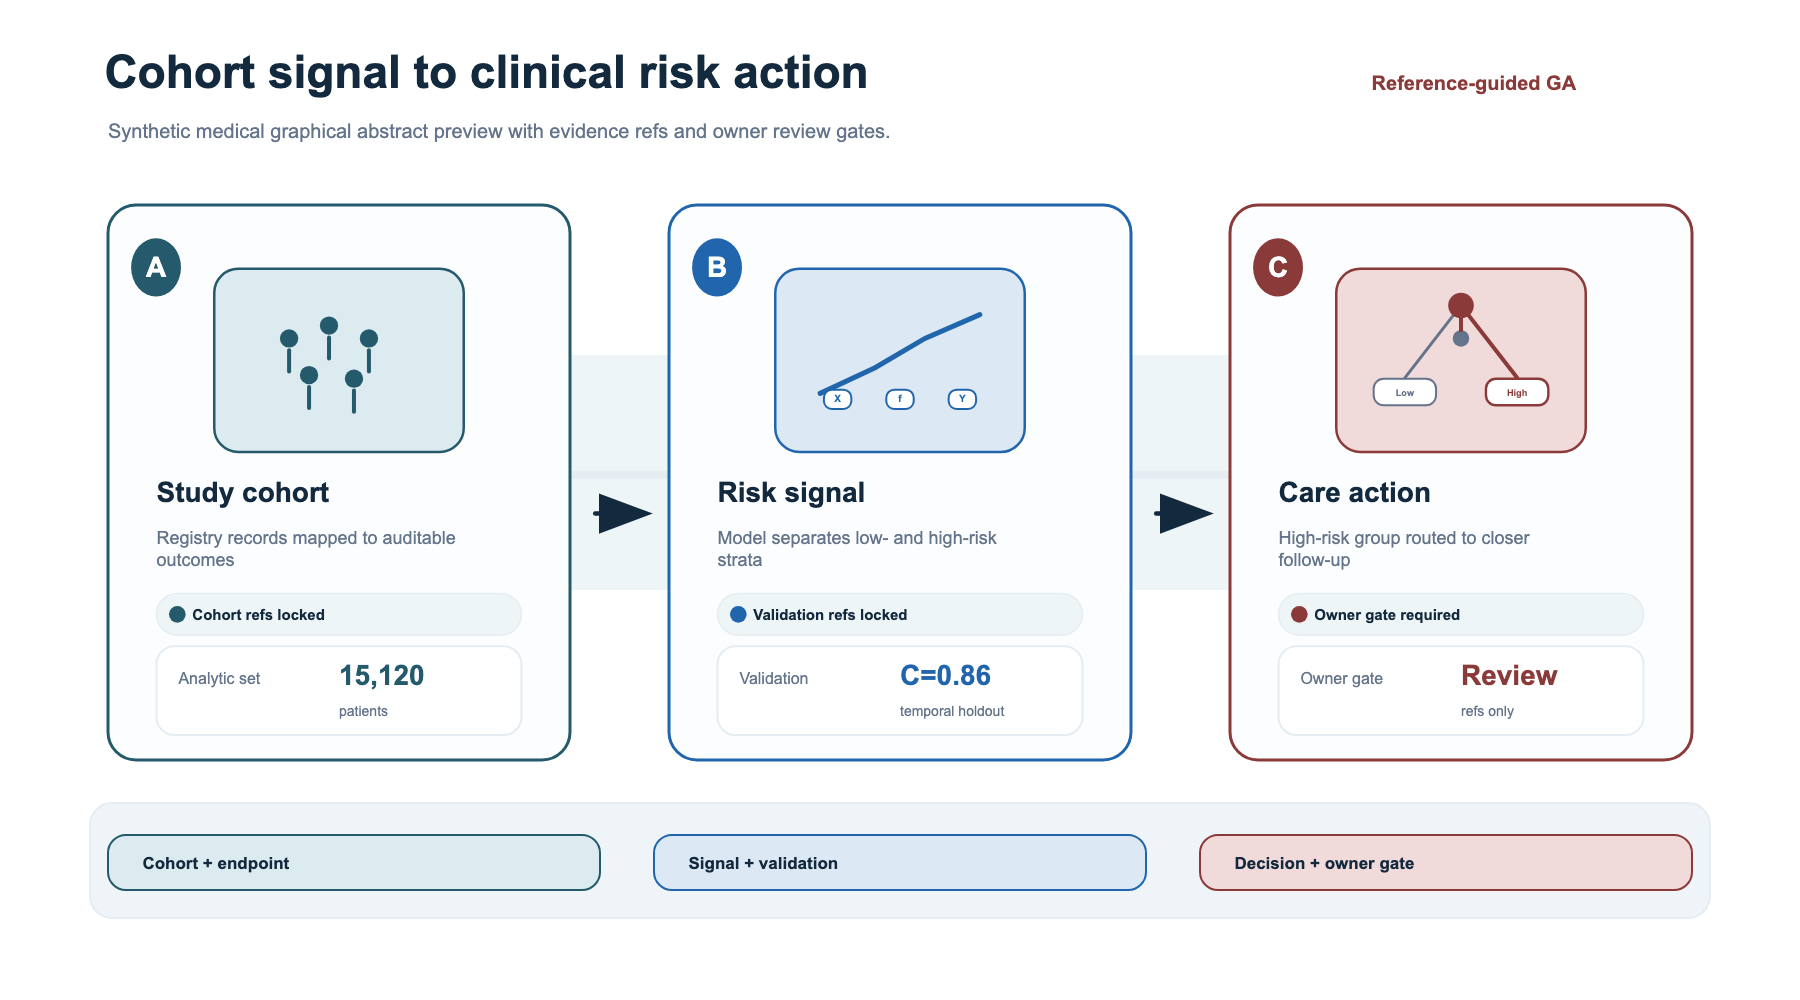
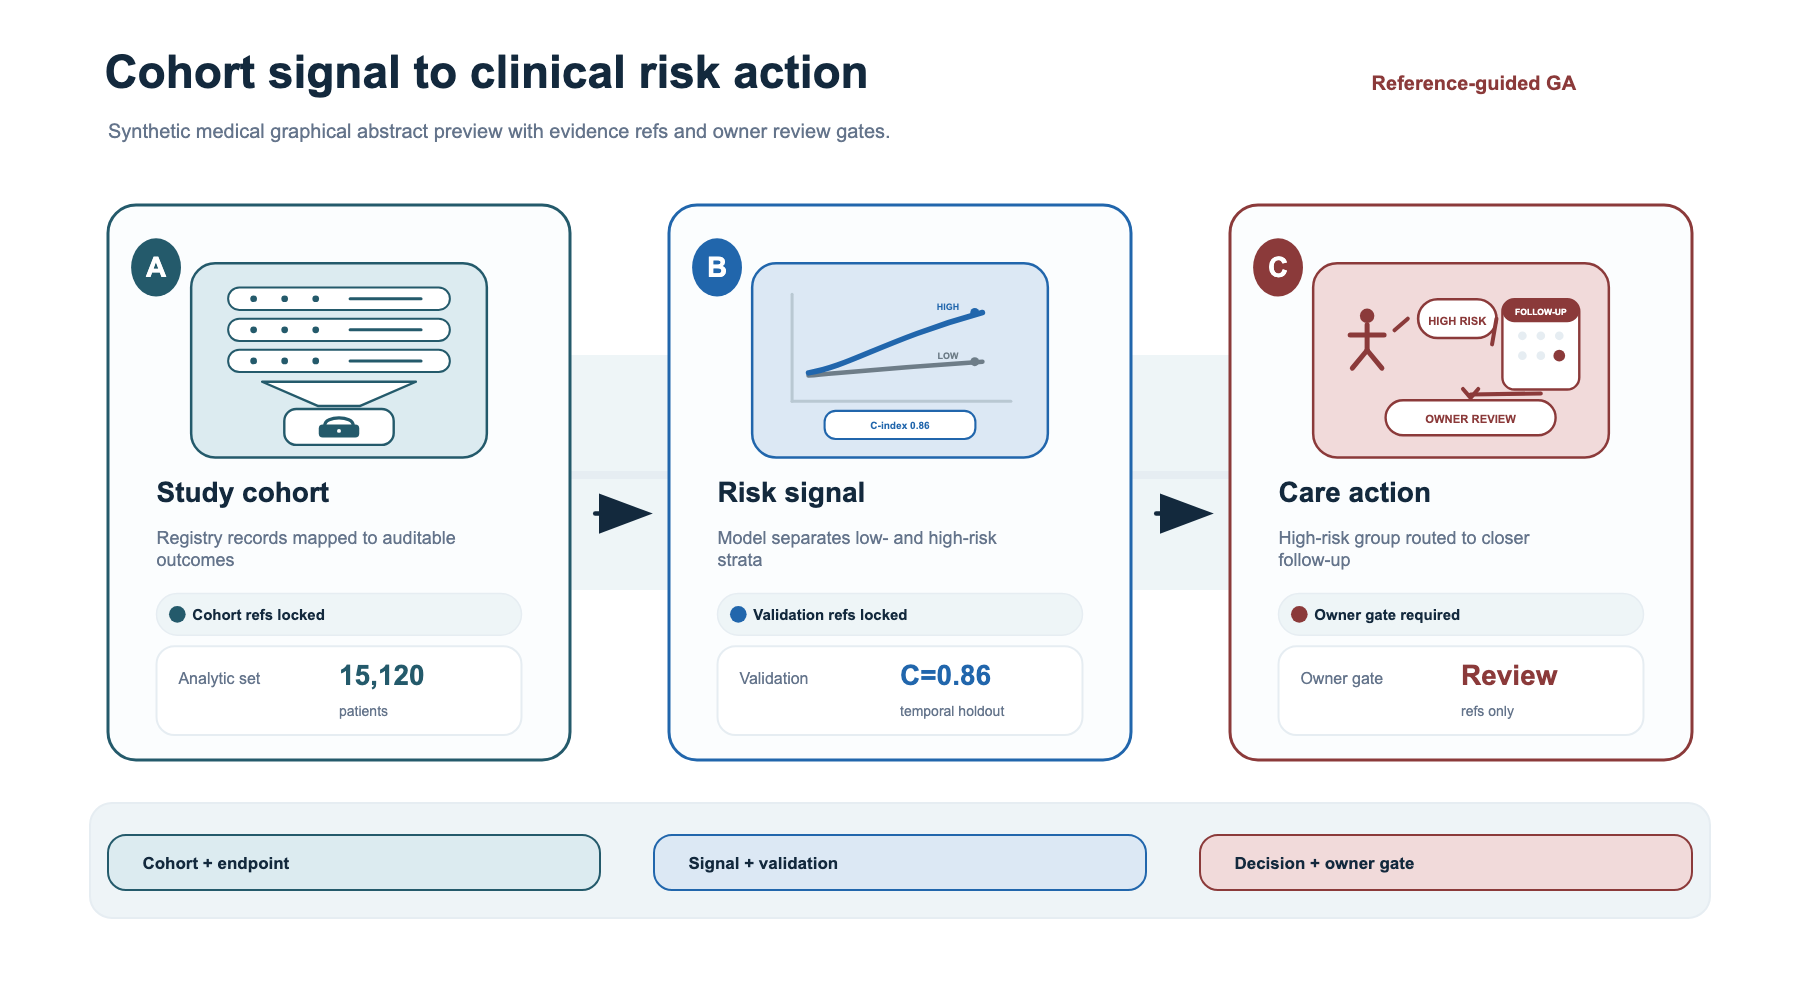
Polish graphical abstract semantic microflows

Changed region(s): [[0.7156, 0.248, 0.9022, 0.465], [0.0933, 0.248, 0.28, 0.465], [0.4044, 0.248, 0.5911, 0.465]]

diff --git a/src/med_autoscience/display_pack_gallery_parts/design_svg_renderer.py b/src/med_autoscience/display_pack_gallery_parts/design_svg_renderer.py
@@ -21,7 +21,7 @@ from med_autoscience.display_pack_gallery_parts.svg_primitives import (
 CANVAS_WIDTH = 1800
 CANVAS_HEIGHT = 1000
 GA_LAYOUT_STYLE = "reference_guided_flow"
-GA_RENDERER_SOURCE = "mas_reference_guided_svg_preview.v3"
+GA_RENDERER_SOURCE = "mas_reference_guided_svg_preview.v5"
 
 
 def render_submission_graphical_abstract_gallery_preview(
@@ -297,7 +297,7 @@ def _append_workflow_node(
         box_id=f"panel_label_{panel_id}",
         box_type="panel_label",
     )
-    glyph_box = relative_box(panel_box, 0.230, 0.115, 0.770, 0.445)
+    glyph_box = relative_box(panel_box, 0.180, 0.105, 0.820, 0.455)
     append_rect(parts, glyph_box, fill=soft, stroke=accent, stroke_width=2.5, radius=24)
     _append_glyph(parts, glyph_box, role=str(panel.get("visual_role") or ""), accent=accent, colors=colors)
     layout_boxes.append(normalized_box(glyph_box, width=width, height=height, box_id=f"visual_glyph_{panel_id}", box_type="visual_glyph"))
@@ -551,35 +551,92 @@ def _append_gate_glyph(parts: list[str], box: dict[str, float], *, accent: str) 
 
 
 def _append_care_action_glyph(parts: list[str], box: dict[str, float], *, accent: str, colors: dict[str, str]) -> None:
-    low = relative_box(box, 0.150, 0.600, 0.400, 0.745)
-    high = relative_box(box, 0.600, 0.600, 0.850, 0.745)
-    append_rect(parts, low, fill="#FFFFFF", stroke=colors["muted"], stroke_width=2, radius=10)
-    append_rect(parts, high, fill="#FFFFFF", stroke=accent, stroke_width=2.4, radius=10)
-    _center_text(parts, low, label="Low", color=colors["muted"], font_size=box["h"] * 0.050)
-    _center_text(parts, high, label="High", color=accent, font_size=box["h"] * 0.050)
-    append_line(parts, x1=box["x0"] + box["w"] * 0.500, y1=box["y0"] + box["h"] * 0.200, x2=box["x0"] + box["w"] * 0.275, y2=box["y0"] + box["h"] * 0.595, color=colors["muted"], stroke_width=3)
-    append_line(parts, x1=box["x0"] + box["w"] * 0.500, y1=box["y0"] + box["h"] * 0.200, x2=box["x0"] + box["w"] * 0.725, y2=box["y0"] + box["h"] * 0.595, color=accent, stroke_width=4)
-    for cx, cy, r, fill in ((0.50, 0.20, 0.070, accent), (0.50, 0.380, 0.045, colors["muted"])):
-        append_circle(parts, cx=box["x0"] + box["w"] * cx, cy=box["y0"] + box["h"] * cy, r=box["h"] * r, fill=fill)
-    append_line(parts, x1=box["x0"] + box["w"] * 0.500, y1=box["y0"] + box["h"] * 0.255, x2=box["x0"] + box["w"] * 0.500, y2=box["y0"] + box["h"] * 0.335, color=accent, stroke_width=4)
+    patient = relative_box(box, 0.090, 0.210, 0.275, 0.565)
+    append_circle(parts, cx=patient["x0"] + patient["w"] * 0.50, cy=patient["y0"] + patient["h"] * 0.170, r=patient["h"] * 0.105, fill=accent)
+    append_line(parts, x1=patient["x0"] + patient["w"] * 0.50, y1=patient["y0"] + patient["h"] * 0.300, x2=patient["x0"] + patient["w"] * 0.50, y2=patient["y0"] + patient["h"] * 0.670, color=accent, stroke_width=5)
+    append_line(parts, x1=patient["x0"] + patient["w"] * 0.190, y1=patient["y0"] + patient["h"] * 0.450, x2=patient["x0"] + patient["w"] * 0.810, y2=patient["y0"] + patient["h"] * 0.450, color=accent, stroke_width=5)
+    append_line(parts, x1=patient["x0"] + patient["w"] * 0.500, y1=patient["y0"] + patient["h"] * 0.670, x2=patient["x0"] + patient["w"] * 0.230, y2=patient["y0"] + patient["h"] * 0.930, color=accent, stroke_width=5)
+    append_line(parts, x1=patient["x0"] + patient["w"] * 0.500, y1=patient["y0"] + patient["h"] * 0.670, x2=patient["x0"] + patient["w"] * 0.770, y2=patient["y0"] + patient["h"] * 0.930, color=accent, stroke_width=5)
+
+    high_badge = relative_box(box, 0.355, 0.185, 0.620, 0.385)
+    append_rect(parts, high_badge, fill="#FFFFFF", stroke=accent, stroke_width=2.6, radius=high_badge["h"] / 2.0)
+    _center_text(parts, high_badge, label="HIGH RISK", color=accent, font_size=box["h"] * 0.058)
+
+    calendar = relative_box(box, 0.640, 0.185, 0.900, 0.650)
+    append_rect(parts, calendar, fill="#FFFFFF", stroke=accent, stroke_width=2.4, radius=12)
+    append_rect(parts, relative_box(calendar, 0.0, 0.0, 1.0, 0.255), fill=accent, stroke=accent, stroke_width=0, radius=12)
+    for cx in (0.260, 0.500, 0.740):
+        append_circle(parts, cx=calendar["x0"] + calendar["w"] * cx, cy=calendar["y0"] + calendar["h"] * 0.405, r=calendar["h"] * 0.048, fill=colors["grid"])
+    for cx in (0.260, 0.500):
+        append_circle(parts, cx=calendar["x0"] + calendar["w"] * cx, cy=calendar["y0"] + calendar["h"] * 0.625, r=calendar["h"] * 0.048, fill=colors["grid"])
+    append_circle(parts, cx=calendar["x0"] + calendar["w"] * 0.740, cy=calendar["y0"] + calendar["h"] * 0.625, r=calendar["h"] * 0.065, fill=accent)
+    _center_text(parts, relative_box(calendar, 0.050, 0.015, 0.950, 0.250), label="FOLLOW-UP", color="#FFFFFF", font_size=box["h"] * 0.044)
+
+    action = relative_box(box, 0.245, 0.705, 0.820, 0.885)
+    append_rect(parts, action, fill="#FFFFFF", stroke=accent, stroke_width=2.4, radius=action["h"] / 2.0)
+    _center_text(parts, action, label="OWNER REVIEW", color=accent, font_size=box["h"] * 0.058)
+    append_line(parts, x1=patient["x0"] + patient["w"], y1=patient["y0"] + patient["h"] * 0.380, x2=high_badge["x0"] - box["w"] * 0.035, y2=high_badge["y0"] + high_badge["h"] * 0.500, color=accent, stroke_width=4)
+    append_line(parts, x1=high_badge["x0"] + high_badge["w"], y1=high_badge["y0"] + high_badge["h"] * 0.500, x2=calendar["x0"] - box["w"] * 0.035, y2=calendar["y0"] + calendar["h"] * 0.500, color=accent, stroke_width=4)
+    append_line(parts, x1=calendar["x0"] + calendar["w"] * 0.500, y1=calendar["y0"] + calendar["h"] + box["h"] * 0.020, x2=action["x0"] + action["w"] * 0.500, y2=action["y0"] - box["h"] * 0.030, color=accent, stroke_width=4)
+    parts.append(
+        f'<path d="M{action["x0"] + action["w"] * 0.455:.2f},{action["y0"] - box["h"] * 0.058:.2f} '
+        f'L{action["x0"] + action["w"] * 0.500:.2f},{action["y0"] - box["h"] * 0.012:.2f} '
+        f'L{action["x0"] + action["w"] * 0.545:.2f},{action["y0"] - box["h"] * 0.058:.2f}" '
+        f'fill="none" stroke="{escape(accent)}" stroke-width="4" stroke-linecap="round" stroke-linejoin="round"/>\n'
+    )
 
 
 def _append_population_glyph(parts: list[str], box: dict[str, float], *, accent: str) -> None:
-    for cx, cy in ((0.30, 0.38), (0.46, 0.31), (0.62, 0.38), (0.38, 0.58), (0.56, 0.60)):
-        append_circle(parts, cx=box["x0"] + box["w"] * cx, cy=box["y0"] + box["h"] * cy, r=box["h"] * 0.050, fill=accent)
-        append_line(parts, x1=box["x0"] + box["w"] * cx, y1=box["y0"] + box["h"] * (cy + 0.065), x2=box["x0"] + box["w"] * cx, y2=box["y0"] + box["h"] * (cy + 0.180), color=accent, stroke_width=4)
+    rows = [relative_box(box, 0.125, y0, 0.875, y0 + 0.115) for y0 in (0.125, 0.285, 0.445)]
+    for row in rows:
+        append_rect(parts, row, fill="#FFFFFF", stroke=accent, stroke_width=2.0, radius=row["h"] / 2.0)
+        for cx in (0.115, 0.255, 0.395):
+            append_circle(parts, cx=row["x0"] + row["w"] * cx, cy=row["y0"] + row["h"] * 0.500, r=row["h"] * 0.150, fill=accent)
+        append_line(parts, x1=row["x0"] + row["w"] * 0.550, y1=row["y0"] + row["h"] * 0.500, x2=row["x0"] + row["w"] * 0.870, y2=row["y0"] + row["h"] * 0.500, color=accent, stroke_width=3)
+    parts.append(
+        f'<path d="M{box["x0"] + box["w"] * 0.240:.2f},{box["y0"] + box["h"] * 0.610:.2f} '
+        f'L{box["x0"] + box["w"] * 0.760:.2f},{box["y0"] + box["h"] * 0.610:.2f} '
+        f'L{box["x0"] + box["w"] * 0.570:.2f},{box["y0"] + box["h"] * 0.735:.2f} '
+        f'L{box["x0"] + box["w"] * 0.430:.2f},{box["y0"] + box["h"] * 0.735:.2f} Z" '
+        f'fill="#FFFFFF" stroke="{escape(accent)}" stroke-width="2.40" stroke-linejoin="round"/>\n'
+    )
+    endpoint = relative_box(box, 0.315, 0.750, 0.685, 0.935)
+    append_rect(parts, endpoint, fill="#FFFFFF", stroke=accent, stroke_width=2.4, radius=12)
+    append_rect(parts, relative_box(endpoint, 0.315, 0.430, 0.685, 0.795), fill=accent, stroke=accent, stroke_width=0, radius=4)
+    parts.append(
+        f'<path d="M{endpoint["x0"] + endpoint["w"] * 0.370:.2f},{endpoint["y0"] + endpoint["h"] * 0.455:.2f} '
+        f'C{endpoint["x0"] + endpoint["w"] * 0.370:.2f},{endpoint["y0"] + endpoint["h"] * 0.180:.2f} '
+        f'{endpoint["x0"] + endpoint["w"] * 0.630:.2f},{endpoint["y0"] + endpoint["h"] * 0.180:.2f} '
+        f'{endpoint["x0"] + endpoint["w"] * 0.630:.2f},{endpoint["y0"] + endpoint["h"] * 0.455:.2f}" '
+        f'fill="none" stroke="{escape(accent)}" stroke-width="3.20" stroke-linecap="round"/>\n'
+    )
+    append_circle(parts, cx=endpoint["x0"] + endpoint["w"] * 0.500, cy=endpoint["y0"] + endpoint["h"] * 0.610, r=endpoint["h"] * 0.055, fill="#FFFFFF")
 
 
 def _append_model_glyph(parts: list[str], box: dict[str, float], *, accent: str) -> None:
+    axis = relative_box(box, 0.135, 0.160, 0.875, 0.710)
+    append_line(parts, x1=axis["x0"], y1=axis["y0"] + axis["h"], x2=axis["x0"] + axis["w"], y2=axis["y0"] + axis["h"], color="#B9C8D2", stroke_width=3)
+    append_line(parts, x1=axis["x0"], y1=axis["y0"], x2=axis["x0"], y2=axis["y0"] + axis["h"], color="#B9C8D2", stroke_width=3)
     parts.append(
-        f'<polyline points="{box["x0"] + box["w"] * 0.18:.2f},{box["y0"] + box["h"] * 0.68:.2f} {box["x0"] + box["w"] * 0.40:.2f},{box["y0"] + box["h"] * 0.54:.2f} '
-        f'{box["x0"] + box["w"] * 0.60:.2f},{box["y0"] + box["h"] * 0.38:.2f} {box["x0"] + box["w"] * 0.82:.2f},{box["y0"] + box["h"] * 0.25:.2f}" '
-        f'fill="none" stroke="{escape(accent)}" stroke-width="5" stroke-linecap="round"/>\n'
+        f'<path d="M{axis["x0"] + axis["w"] * 0.075:.2f},{axis["y0"] + axis["h"] * 0.760:.2f} '
+        f'C{axis["x0"] + axis["w"] * 0.250:.2f},{axis["y0"] + axis["h"] * 0.730:.2f} '
+        f'{axis["x0"] + axis["w"] * 0.430:.2f},{axis["y0"] + axis["h"] * 0.690:.2f} '
+        f'{axis["x0"] + axis["w"] * 0.870:.2f},{axis["y0"] + axis["h"] * 0.630:.2f}" '
+        f'fill="none" stroke="#6E7D88" stroke-width="4.5" stroke-linecap="round"/>\n'
     )
-    for cx, label in ((0.25, "X"), (0.50, "f"), (0.75, "Y")):
-        node = {"x0": box["x0"] + box["w"] * cx - box["w"] * 0.055, "y0": box["y0"] + box["h"] * 0.66, "w": box["w"] * 0.110, "h": box["h"] * 0.105}
-        append_rect(parts, node, fill="#FFFFFF", stroke=accent, stroke_width=2, radius=8)
-        _center_text(parts, node, label=label, color=accent, font_size=box["h"] * 0.055)
+    parts.append(
+        f'<path d="M{axis["x0"] + axis["w"] * 0.075:.2f},{axis["y0"] + axis["h"] * 0.735:.2f} '
+        f'C{axis["x0"] + axis["w"] * 0.260:.2f},{axis["y0"] + axis["h"] * 0.675:.2f} '
+        f'{axis["x0"] + axis["w"] * 0.430:.2f},{axis["y0"] + axis["h"] * 0.420:.2f} '
+        f'{axis["x0"] + axis["w"] * 0.870:.2f},{axis["y0"] + axis["h"] * 0.170:.2f}" '
+        f'fill="none" stroke="{escape(accent)}" stroke-width="5.5" stroke-linecap="round"/>\n'
+    )
+    for cx, cy, label, color in ((0.835, 0.630, "LOW", "#6E7D88"), (0.835, 0.170, "HIGH", accent)):
+        append_circle(parts, cx=axis["x0"] + axis["w"] * cx, cy=axis["y0"] + axis["h"] * cy, r=axis["h"] * 0.042, fill=color)
+        _center_text(parts, {"x0": axis["x0"] + axis["w"] * 0.610, "y0": axis["y0"] + axis["h"] * cy - axis["h"] * 0.090, "w": axis["w"] * 0.205, "h": axis["h"] * 0.105}, label=label, color=color, font_size=box["h"] * 0.046)
+    auc = relative_box(box, 0.245, 0.760, 0.755, 0.905)
+    append_rect(parts, auc, fill="#FFFFFF", stroke=accent, stroke_width=2.1, radius=11)
+    _center_text(parts, auc, label="C-index 0.86", color=accent, font_size=box["h"] * 0.052)
 
 
 def _center_text(parts: list[str], box: dict[str, float], *, label: str, color: str, font_size: float) -> None:
@@ -621,6 +678,8 @@ def _write_layout(
                         "three_panel_full_width",
                         "left_to_right_reading_order",
                         "stable_panel_boundaries",
+                        "semantic_panel_glyphs",
+                        "semantic_panel_microflows",
                         "evidence_cue_per_panel",
                         "separate_quality_band",
                     ],

diff --git a/tests/test_python_illustration_renderer_layouts.py b/tests/test_python_illustration_renderer_layouts.py
@@ -176,12 +176,14 @@ def test_submission_graphical_abstract_reference_guided_flow_uses_wide_canvas(tm
     assert sidecar["metrics"]["layout_style"] == "reference_guided_flow"
     assert sidecar["metrics"]["panel_count"] == 3
     assert sidecar["metrics"]["visual_roles"] == ["population", "model_signal", "clinical_use"]
-    assert sidecar["metrics"]["source_renderer"] == "mas_reference_guided_svg_preview.v3"
+    assert sidecar["metrics"]["source_renderer"] == "mas_reference_guided_svg_preview.v5"
     assert sidecar["metrics"]["canvas_size_px"] == [1800, 1000]
     assert set(sidecar["metrics"]["design_rules"]) >= {
         "three_panel_full_width",
         "left_to_right_reading_order",
         "stable_panel_boundaries",
+        "semantic_panel_glyphs",
+        "semantic_panel_microflows",
         "evidence_cue_per_panel",
         "separate_quality_band",
     }

diff --git a/docs/delivery/medical-display/examples/display_pack_gallery_status.md b/docs/delivery/medical-display/examples/display_pack_gallery_status.md
@@ -22,8 +22,8 @@ Machine boundary: 本文由 `scripts/build-display-pack-gallery.py --publish-doc
 | Page-level composition recipes | 6 |
 | Composition storyboard gallery pages | 6 |
 | LidocaineQ reference coverage audit | 33/33 |
-| LidocaineQ visual parity audit | /Users/gaofeng/workspace/.worktrees/mas-display-gallery-visual-system-20260628/outputs/display-pack-gallery/lidocaineq_visual_parity_audit.md |
-| LidocaineQ parity contact sheet | /Users/gaofeng/workspace/.worktrees/mas-display-gallery-visual-system-[phone redacted]/outputs/display-pack-gallery/lidocaineq_visual_parity_contact_sheet.png |
+| LidocaineQ visual parity audit | /Users/gaofeng/workspace/med-autoscience/outputs/display-pack-gallery/lidocaineq_visual_parity_audit.md |
+| LidocaineQ parity contact sheet | /Users/gaofeng/workspace/med-autoscience/outputs/display-pack-gallery/lidocaineq_visual_parity_contact_sheet.png |
 | Render cache hit | 0 |
 | Render cache miss | 0 |
 | Package-only reused assets | 37 |
@@ -31,7 +31,7 @@ Machine boundary: 本文由 `scripts/build-display-pack-gallery.py --publish-doc
 
 `Gallery evidence figures` 是 PDF 画册中展示的 R/ggplot2 数据证据图数量。`Gallery reporting flow figures` 是结构化人数和排除原因驱动的 cohort/participant flow 起点；其 checked-in renderer 是 R/ggplot2 + `ggconsort`，必须消费 OPL prepared dependency receipt / run-context 后才允许渲染。缺 receipt 或缺 `ggconsort` 时，Gallery 只记录 `not_rendered` typed reason，不回退到 Python generated participant flow，也不宣称已执行 `ggconsort`。`Gallery design figures` 是 graphical abstract 等非统计证据设计图起点。`Composition storyboard gallery pages` 是 PDF/HTML 前段展示的图页级方案数量。`Page-level composition recipes` 是组织多个数据证据面板的图页方案，不是更多单图模板。`Current canonical templates` 是当前可推荐 canonical surface。`Retired alias / duplicate ids` 只用于显式旧 ID 迁移，不是 current template，也不是画册卡片。
 
-Package-only 打包复用状态：`synced_from_docs_mirror`；复制资产数：`0`；更新资产数：`1`。代码、payload、style profile 或 dependency receipt 未变化时，Gallery 可从既有 assets 重打包 HTML/PDF/docs；真正的渲染 freshness 仍由 render cache key、layout sidecar、dependency run-context 和真实论文 artifact 审计证明。
+Package-only 打包复用状态：`synced_from_docs_mirror`；复制资产数：`0`；更新资产数：`4`。代码、payload、style profile 或 dependency receipt 未变化时，Gallery 可从既有 assets 重打包 HTML/PDF/docs；真正的渲染 freshness 仍由 render cache key、layout sidecar、dependency run-context 和真实论文 artifact 审计证明。
 
 ## 渲染器与质量口径
 
@@ -60,7 +60,7 @@ Package-only 打包复用状态：`synced_from_docs_mirror`；复制资产数：
 - figure workflow policy: `mas_nature_skills_figure_workflow_lifecycle.v1`
 - composition recipe policy: `mas_medical_figure_composition_recipes.v1`
 - LidocaineQ 33 项参考覆盖完整: `true`
-- LidocaineQ 33 项逐图视觉审计: `/Users/gaofeng/workspace/.worktrees/mas-display-gallery-visual-system-20260628/outputs/display-pack-gallery/lidocaineq_visual_parity_audit.md`
+- LidocaineQ 33 项逐图视觉审计: `/Users/gaofeng/workspace/med-autoscience/outputs/display-pack-gallery/lidocaineq_visual_parity_audit.md`
 
 ## LidocaineQ 质量审计面
 